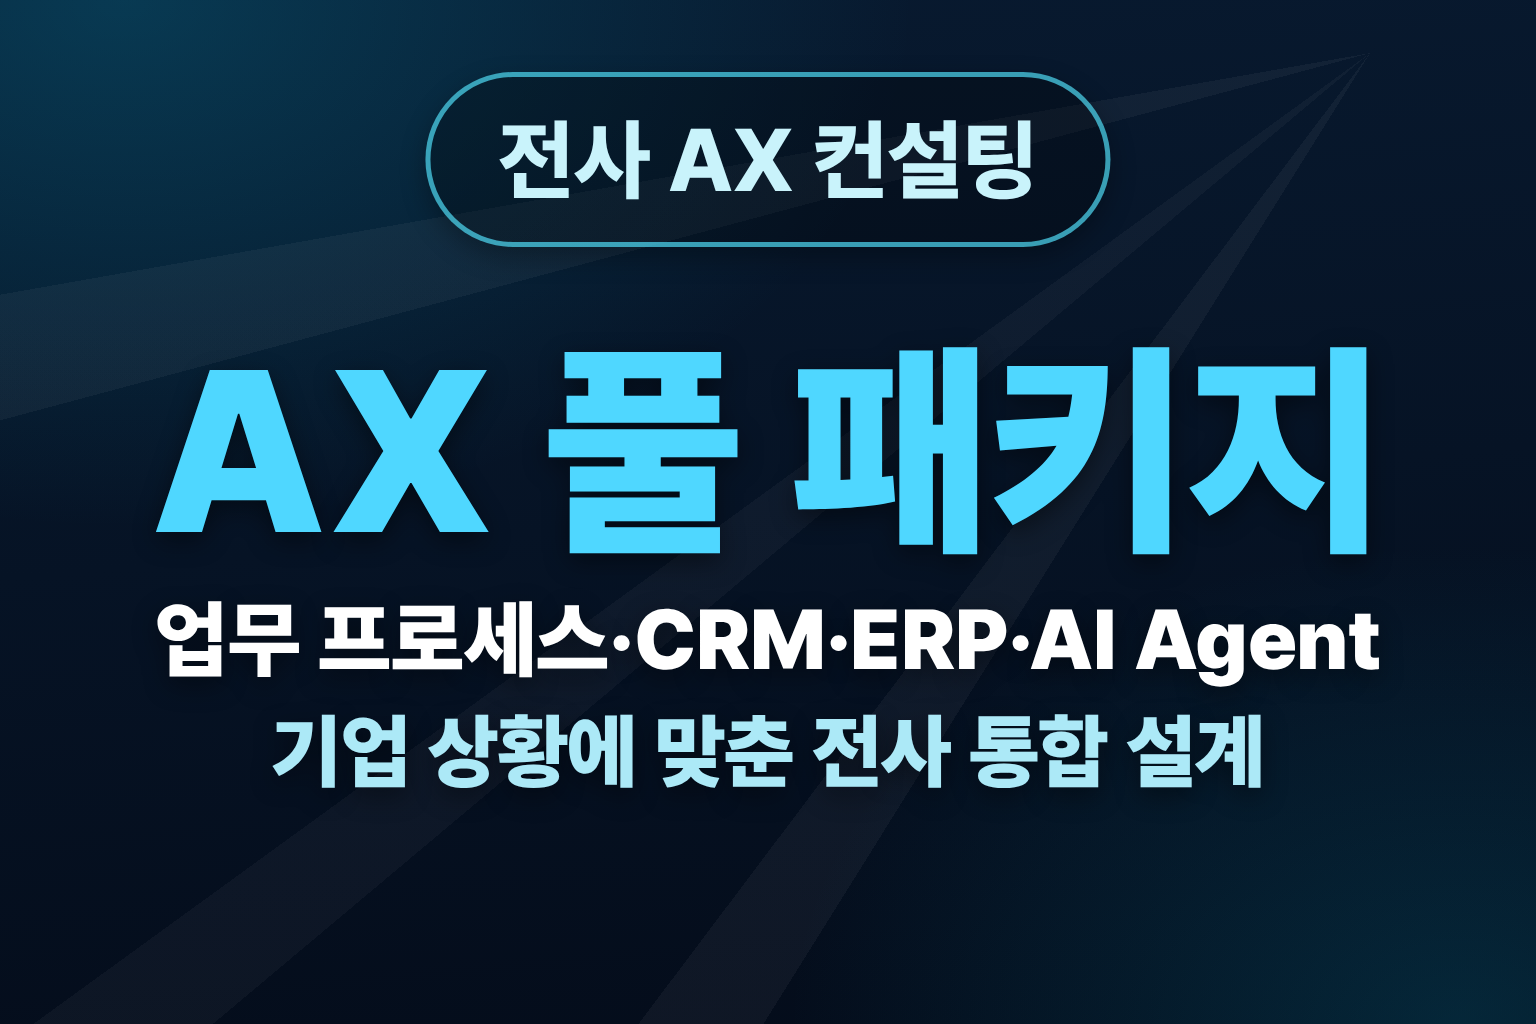
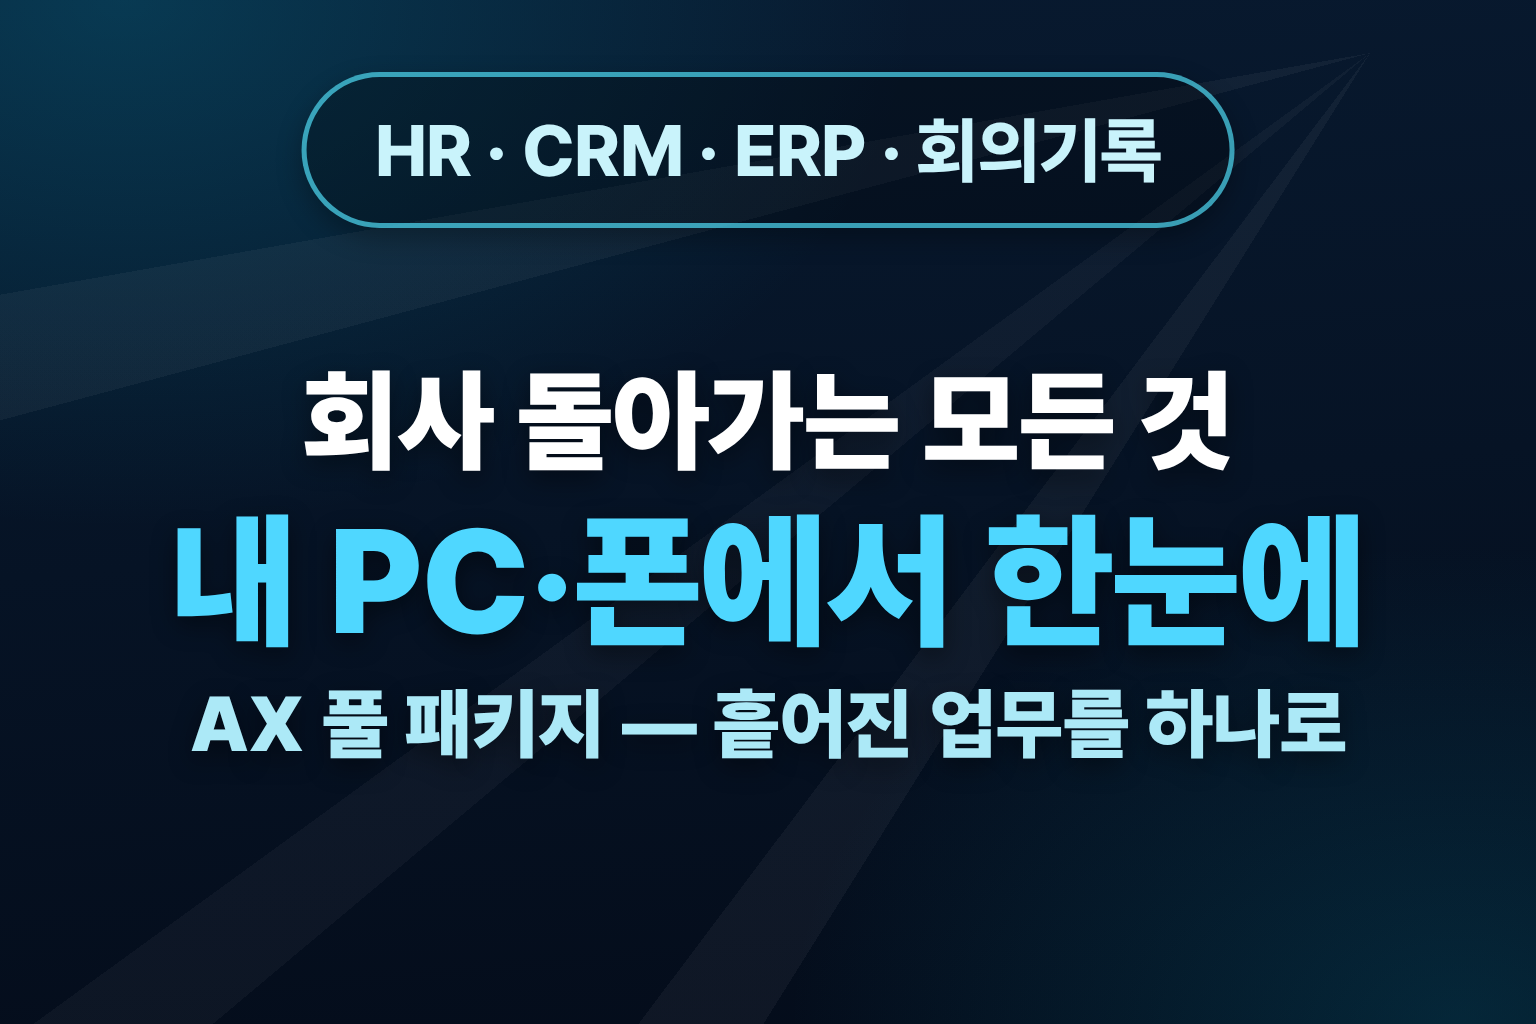
법인 컨설팅 카테고리 신설 + AX 풀 패키지 쉬운 문구 전환
- 6번 카테고리 '법인 컨설팅' 신설: 세금은 줄이고, 회사의 부를 제대로 옮기고 싶다면
  · 가지급금 정리 / 이익잉여금 처분 / 가업승계 증여특례 / 배우자 증여 이익소각 설계 (모두 협의 후 결정)
  · 섹션 제목 아래 '세무사 등 관련 분야 전문 자격사와 함께 진행' 노트 상시 노출 + 상품별 고지 포함
  · 전용 배너 4종(딥 와인+골드, 전문 자격사 풋노트), 상세페이지·카테고리 탭·?category=corporate 연동
- 햄버거 메뉴 상황 목차에 6번 항목 추가
- AX 풀 패키지 전면 리라이팅: 전문용어 대신 '회사 돌아가는 모든 것, 내 PC·폰에서 한눈에'
  · HR·CRM·ERP·회의 아카이빙까지 하나로 연결된다는 부연으로 배너·카드·상세 문구 통일

Claude-Session: https://claude.ai/code/session_0127QvWRVvHFDHQbBmPVBCzc

diff --git a/src/data/businessPackages.ts b/src/data/businessPackages.ts
@@ -58,7 +58,7 @@ export type BusinessPackage = {
 }
 
 // 카테고리 탭
-export const CATEGORIES = ['전체', '자금조달', '지원금', '인증·절세', 'AX 컨설팅', '풀패키지']
+export const CATEGORIES = ['전체', '자금조달', '지원금', '인증·절세', 'AX 컨설팅', '풀패키지', '법인 컨설팅']
 
 // 카테고리별 상황 헤드라인 (서비스몰 홈 섹션 제목 + 카테고리 탭 라벨)
 export const CATEGORY_SCENARIOS: Record<string, string> = {
@@ -67,6 +67,12 @@ export const CATEGORY_SCENARIOS: Record<string, string> = {
   '인증·절세': '대외 신뢰도·가점·세금 혜택까지 챙기고 싶다면',
   'AX 컨설팅': 'AI 시대에 뒤처지지 않는 회사로 만들고 싶다면',
   '풀패키지': '믿을 만한 파트너가 늘 함께했으면 한다면',
+  '법인 컨설팅': '세금은 줄이고, 회사의 부를 제대로 옮기고 싶다면',
+}
+
+// 카테고리별 보조 안내 — 섹션 제목 아래 노출 (전문성 신뢰 확보용)
+export const CATEGORY_NOTES: Record<string, string> = {
+  '법인 컨설팅': '가지급금·이익잉여금·가업승계 같은 세무 사안은 세무사 등 관련 분야 전문 자격사와 함께 진행합니다.',
 }
 
 // 대표 상품 TOP 5 노출 순서
@@ -270,23 +276,23 @@ export const businessPackages: BusinessPackage[] = [
     id: 'ax-full-package',
     slug: 'ax-full-package',
     category: 'AX 컨설팅',
-    badge: '전사 AX',
+    badge: '한눈에 관리',
     badgeTone: 'slate',
     name: 'AX 풀 패키지',
-    tagline: 'AI 자동화부터 전사 업무 프로세스·CRM·ERP·AI Agent·사내 업무 체계까지 기업 상황에 맞춰 설계합니다.',
-    short: '전사 업무 프로세스·CRM·ERP·AI Agent까지 설계',
+    tagline: '회사의 모든 정보를 대표님 PC와 스마트폰에서 한눈에 보고 관리할 수 있게 만듭니다. 직원 관리(HR)·고객 관리(CRM)·재고·정산(ERP)·회의 아카이빙까지, 흩어진 업무를 하나로 연결합니다.',
+    short: '회사 돌아가는 모든 것, 내 PC·스마트폰에서 한눈에',
     price: '상담 후 안내',
     priceNote: '기업 상황에 맞춰 범위·견적을 상담 후 안내드립니다.',
     priceType: 'consult',
-    highlights: ['AI 자동화 + 전사 업무 프로세스 설계', 'CRM·ERP·AI Agent·자동화 플랫폼', '사내 업무 체계까지 통합 설계'],
-    highlightNote: '기업 상황에 맞춰 설계하는 전사 AX 구축',
-    recommendedFor: ['단순 자동화를 넘어 전사 업무 체계를 바꾸려는 대표님', 'CRM·ERP·AI Agent까지 통합 설계가 필요한 기업'],
-    deliverables: ['전사 업무 프로세스 진단·설계', 'CRM·ERP·AI Agent·자동화 플랫폼 설계', '사내 업무 체계 재정비', '단계별 구축·운영 로드맵'],
+    highlights: ['HR·CRM·ERP·회의기록까지 하나로 연결', '언제 어디서든 PC·스마트폰으로 확인', '필요한 것부터 단계적으로 구축'],
+    highlightNote: '흩어진 회사 정보를 한 화면에서 보고 관리합니다.',
+    recommendedFor: ['회사 돌아가는 상황을 언제 어디서든 한눈에 보고 싶은 대표님', '엑셀·메신저·수기로 흩어진 업무를 하나로 모으고 싶은 기업'],
+    deliverables: ['회사 업무·정보 흐름 진단', 'HR·CRM·ERP·회의 아카이빙 통합 설계', 'PC·스마트폰 어디서든 보는 관리 화면 구축', '단계별 구축·운영 로드맵'],
     process: '종합 진단 → 범위·견적 상담 → 단계별 설계·구축 → 운영 안내',
-    expectation: 'AI 자동화부터 전사 프로세스·CRM·ERP·AI Agent·사내 업무 체계까지 하나의 AX 구조로 설계됩니다. 범위와 견적은 상담에서 확정합니다.',
-    why: '자동화 프로그램 하나로는 회사 전체가 바뀌지 않습니다. 업무 프로세스·데이터·시스템을 함께 설계해야 전사 차원의 효율이 만들어집니다. 기업 상황에 맞춰 필요한 만큼 단계적으로 구축합니다.',
+    expectation: '직원 관리(HR), 고객 관리(CRM), 재고·정산(ERP), 회의 기록까지 흩어져 있던 회사 정보가 하나로 연결되어, 대표님 PC와 스마트폰에서 한눈에 확인하고 관리할 수 있게 됩니다.',
+    why: '업무가 엑셀, 메신저, 종이 문서에 흩어져 있으면 회사 상황을 파악하는 데만 하루가 갑니다. 회사의 정보를 한 곳에 모아 PC와 스마트폰 어디서든 볼 수 있게 만들면, 자리에 없어도 회사가 어떻게 돌아가는지 바로 보입니다.',
     faqs: [
-      { q: '무엇까지 포함되나요?', a: 'AI 자동화, 전사 업무 프로세스, CRM, ERP, AI Agent, 자동화 플랫폼, 사내 업무 체계까지 기업 상황에 맞춰 설계합니다. 범위는 상담에서 정합니다.' },
+      { q: '무엇까지 포함되나요?', a: '직원 관리(HR), 고객 관리(CRM), 재고·매출·정산 관리(ERP), 회의 아카이빙 등 회사 운영에 필요한 것들을 기업 상황에 맞춰 하나로 연결합니다. 범위는 상담에서 정합니다.' },
       { q: '비용은 어떻게 되나요?', a: '기업 규모와 구축 범위에 따라 달라, 상담 후 견적을 안내드립니다.' },
       { q: '한 번에 다 구축하나요?', a: '우선순위를 정해 단계적으로 진행합니다. 무엇부터 할지는 종합 진단에서 함께 정합니다.' },
     ],
@@ -435,6 +441,123 @@ export const businessPackages: BusinessPackage[] = [
     featured: true,
     flagship: true,
   },
+  // ── 법인 컨설팅 (전통 법인 컨설팅 — 세무사 등 전문 자격사 협업, 전부 협의 후 결정) ──
+  {
+    id: 'provisional-payment',
+    slug: 'provisional-payment',
+    category: '법인 컨설팅',
+    badge: '전문 자격사 협업',
+    badgeTone: 'slate',
+    name: '가지급금 정리 컨설팅',
+    tagline: '세무사 등 관련 분야 전문 자격사와 함께, 쌓여 있는 가지급금의 원인을 분석하고 계획적으로 정리합니다.',
+    short: '쌓인 가지급금, 세금 부담이 커지기 전에 계획적으로 정리',
+    price: '협의 후 결정',
+    priceNote: '가지급금 규모·발생 원인에 따라 협의 후 결정',
+    priceType: 'consult',
+    highlights: ['가지급금 원인 분석 · 정리 플랜 설계', '인정이자·상여처분 부담 사전 점검', '세무사 등 전문 자격사와 협업 진행'],
+    highlightNote: '방치할수록 커지는 가지급금 부담을 계획적으로 줄여갑니다.',
+    recommendedFor: ['가지급금이 쌓여 세금 부담이 걱정되는 법인', '법인 자금 흐름을 깨끗하게 정리하고 싶은 대표님'],
+    deliverables: ['가지급금 현황·발생 원인 분석', '정리 방안 비교 검토(급여·배당·퇴직금 등)', '실행 순서·일정 정리', '재발 방지 관리 방안 안내'],
+    process: '현황 진단 → 정리 방안 설계 → 전문 자격사 협업 실행 → 사후 관리',
+    expectation: '가지급금이 왜 쌓였는지 파악되고, 우리 회사 상황에 맞는 정리 순서와 실행 계획이 정리됩니다.',
+    why: '가지급금을 방치하면 인정이자 부담이 계속 쌓이고, 정리 시점에 대표 상여로 처분되어 세금 부담이 커질 수 있습니다. 원인을 파악하고 계획을 세워 순서대로 정리하는 것이 부담을 가장 줄이는 방법입니다.',
+    faqs: [
+      { q: '직접 진행하나요?', a: '세무 판단이 필요한 부분은 세무사 등 관련 분야 전문 자격사와 협업하여 진행합니다. 저희는 전체 과정을 설계하고 관리합니다.' },
+      { q: '비용은 어떻게 되나요?', a: '가지급금 규모와 발생 원인, 정리 범위에 따라 달라 협의 후 결정됩니다.' },
+      { q: '정리하면 세금이 무조건 줄어드나요?', a: '아니요. 기업 상황과 관련 법령에 따라 달라질 수 있어, 사전 검토 후 가능한 범위를 안내드립니다.' },
+    ],
+    visualType: 'funding',
+    imageSrc: '/assets/business-services/provisional-payment.png',
+    notice:
+      '본 서비스는 세무사 등 관련 분야 전문 자격사와 협업하여 진행합니다. 절세 효과와 적용 가능 여부는 기업 상황과 관련 법령·과세관청 해석에 따라 달라질 수 있으며, 특정 결과를 보장하지 않습니다.',
+  },
+  {
+    id: 'retained-earnings',
+    slug: 'retained-earnings',
+    category: '법인 컨설팅',
+    badge: '전문 자격사 협업',
+    badgeTone: 'slate',
+    name: '이익잉여금 처분 컨설팅',
+    tagline: '세무사 등 관련 분야 전문 자격사와 함께, 법인에 쌓인 이익잉여금을 배당·급여·퇴직금 조합으로 계획성 있게 처분합니다.',
+    short: '법인에 쌓인 이익잉여금, 배당·급여·퇴직금 조합으로 계획 있게',
+    price: '협의 후 결정',
+    priceNote: '이익잉여금 규모·주주 구성에 따라 협의 후 결정',
+    priceType: 'consult',
+    highlights: ['이익잉여금 현황·세부담 시뮬레이션', '배당·급여·퇴직금 조합 설계', '세무사 등 전문 자격사와 협업 진행'],
+    highlightNote: '쌓아두기만 한 이익잉여금을 계획적으로 움직입니다.',
+    recommendedFor: ['이익잉여금이 쌓여 있는데 어떻게 가져올지 막막한 대표님', '배당·급여·퇴직금을 조합해 세부담을 관리하고 싶은 법인'],
+    deliverables: ['이익잉여금 현황 진단', '처분 방안별 세부담 비교(배당·급여·퇴직금 등)', '연도별 실행 플랜 설계', '실행 관리·사후 안내'],
+    process: '현황 진단 → 처분 조합 설계 → 전문 자격사 협업 실행 → 사후 관리',
+    expectation: '이익잉여금을 언제, 어떤 방식으로, 얼마나 가져올지 연도별 계획이 정리됩니다.',
+    why: '이익잉여금을 쌓아두기만 하면 나중에 한 번에 가져올 때 세부담이 커지고, 비상장주식 가치가 올라 승계·양도 부담도 함께 커질 수 있습니다. 미리 조합을 설계해 나눠서 움직이는 것이 유리한 경우가 많습니다.',
+    faqs: [
+      { q: '어떤 방식들을 검토하나요?', a: '배당, 급여·상여, 임원 퇴직금 등 처분 방식을 기업 상황에 맞춰 조합하고, 방식별 세부담을 비교해 안내드립니다.' },
+      { q: '직접 진행하나요?', a: '세무 판단이 필요한 부분은 세무사 등 관련 분야 전문 자격사와 협업하여 진행합니다.' },
+      { q: '비용은 어떻게 되나요?', a: '이익잉여금 규모와 설계 범위에 따라 달라 협의 후 결정됩니다.' },
+    ],
+    visualType: 'venture',
+    imageSrc: '/assets/business-services/retained-earnings.png',
+    notice:
+      '본 서비스는 세무사 등 관련 분야 전문 자격사와 협업하여 진행합니다. 절세 효과와 적용 가능 여부는 기업 상황과 관련 법령·과세관청 해석에 따라 달라질 수 있으며, 특정 결과를 보장하지 않습니다.',
+  },
+  {
+    id: 'business-succession',
+    slug: 'business-succession',
+    category: '법인 컨설팅',
+    badge: '전문 자격사 협업',
+    badgeTone: 'slate',
+    name: '가업승계 증여특례 컨설팅',
+    tagline: '세무사 등 관련 분야 전문 자격사와 함께, 가업승계 증여세 과세특례 요건을 검토하고 승계 플랜을 설계합니다.',
+    short: '자녀에게 물려줄 회사, 증여세 과세특례로 계획적으로 준비',
+    price: '협의 후 결정',
+    priceNote: '기업 규모·지분 구조에 따라 협의 후 결정',
+    priceType: 'consult',
+    highlights: ['증여특례 요건·적용 가능성 검토', '승계 일정·지분 이전 플랜 설계', '세무사 등 전문 자격사와 협업 진행'],
+    highlightNote: '준비 기간이 길수록 유리한 것이 가업승계입니다.',
+    recommendedFor: ['자녀에게 회사를 물려줄 계획이 있는 대표님', '증여세 부담 때문에 승계를 미루고 있는 법인'],
+    deliverables: ['가업승계 증여특례 요건 검토', '지분 구조·승계 일정 설계', '특례 적용 후 사후관리 요건 정리', '실행 관리·사후 안내'],
+    process: '요건 검토 → 승계 플랜 설계 → 전문 자격사 협업 실행 → 사후관리 안내',
+    expectation: '우리 회사가 증여특례를 적용받을 수 있는지, 언제 어떤 순서로 지분을 넘길지 승계 로드맵이 정리됩니다.',
+    why: '가업승계는 준비 없이 진행하면 증여세·상속세 부담이 매우 커질 수 있습니다. 과세특례는 요건과 사후관리 의무가 까다로워, 미리 요건을 맞추고 일정을 설계할수록 세부담과 리스크를 줄일 수 있습니다.',
+    faqs: [
+      { q: '특례를 적용하면 세금이 얼마나 줄어드나요?', a: '기업 규모·지분 가치·요건 충족 여부에 따라 달라집니다. 사전 검토에서 예상 범위를 함께 확인합니다.' },
+      { q: '사후관리 요건이 있다고 들었어요.', a: '네. 특례 적용 후 일정 기간 업종·고용 등 유지 의무가 있어, 사후관리까지 함께 설계합니다.' },
+      { q: '직접 진행하나요?', a: '세무 판단이 필요한 부분은 세무사 등 관련 분야 전문 자격사와 협업하여 진행합니다.' },
+    ],
+    visualType: 'full',
+    imageSrc: '/assets/business-services/business-succession.png',
+    notice:
+      '본 서비스는 세무사 등 관련 분야 전문 자격사와 협업하여 진행합니다. 특례 적용 여부와 절세 효과는 기업 상황과 관련 법령·과세관청 해석에 따라 달라질 수 있으며, 특정 결과를 보장하지 않습니다.',
+  },
+  {
+    id: 'spouse-stock-retirement',
+    slug: 'spouse-stock-retirement',
+    category: '법인 컨설팅',
+    badge: '전문 자격사 협업',
+    badgeTone: 'slate',
+    name: '배우자 증여 이익소각 설계',
+    tagline: '세무사 등 관련 분야 전문 자격사와 함께, 배우자 증여재산공제를 활용한 이익소각 구조의 적용 가능성을 검토하고 설계합니다.',
+    short: '배우자 증여공제를 활용한 법인 자금 회수 구조 설계',
+    price: '협의 후 결정',
+    priceNote: '지분 구조·주식 가치에 따라 협의 후 결정',
+    priceType: 'consult',
+    highlights: ['배우자 증여공제 활용 구조 검토', '자기주식 취득·소각 절차 설계', '세무사 등 전문 자격사와 협업 진행'],
+    highlightNote: '요건과 절차가 까다로운 만큼, 사전 검토가 필수입니다.',
+    recommendedFor: ['법인 자금을 회수하고 싶은데 세부담이 걱정되는 대표님', '지분 구조를 정리하면서 자금 회수를 함께 설계하고 싶은 법인'],
+    deliverables: ['적용 가능성·리스크 사전 검토', '주식 가치 평가·증여 플랜 설계', '자기주식 취득·소각 절차 설계', '실행 관리·사후 안내'],
+    process: '사전 검토 → 구조 설계 → 전문 자격사 협업 실행 → 사후 관리',
+    expectation: '우리 회사 상황에서 이익소각 구조가 적용 가능한지, 어떤 절차와 일정으로 진행할지 검토 결과가 정리됩니다.',
+    why: '이익소각은 절차와 요건이 까다롭고, 관련 법령·과세관청 해석에 따라 결과가 달라질 수 있는 영역입니다. 실행 전에 전문 자격사와 함께 적용 가능성과 리스크를 충분히 검토하는 것이 중요합니다.',
+    faqs: [
+      { q: '누구나 활용할 수 있나요?', a: '아니요. 지분 구조·주식 가치·자금 흐름에 따라 적용이 어려운 경우도 있어, 사전 검토가 먼저입니다.' },
+      { q: '세무 리스크는 없나요?', a: '관련 법령과 과세관청 해석에 따라 달라질 수 있어, 전문 자격사와 함께 리스크를 검토한 후 진행 여부를 결정합니다.' },
+      { q: '비용은 어떻게 되나요?', a: '지분 구조와 설계 범위에 따라 협의 후 결정됩니다.' },
+    ],
+    visualType: 'lab',
+    imageSrc: '/assets/business-services/spouse-stock-retirement.png',
+    notice:
+      '본 서비스는 세무사 등 관련 분야 전문 자격사와 협업하여 진행합니다. 절세 효과와 적용 가능 여부는 기업 상황과 관련 법령·과세관청 해석에 따라 달라질 수 있으며, 특정 결과를 보장하지 않습니다.',
+  },
 ]
 
 // ── 상품 배너(썸네일) 폴백 메타 ─────────────────────────────────────────────
@@ -448,12 +571,16 @@ export const packageBanner: Record<string, { title: string; subtitle: string; ac
   'venture-investment': { title: '벤처인증 · 투자유형', subtitle: '절세 전략으로 많이 활용', accent: 'indigo' },
   'responsive-homepage': { title: '반응형 홈페이지', subtitle: '24시간 일하는 온라인 영업사원', accent: 'cyan' },
   'ai-ax-system': { title: 'AI 업무 자동화 프로그램', subtitle: '반복업무 자동화 · 상담 후 최종 견적', accent: 'cyan' },
-  'ax-full-package': { title: 'AX 풀 패키지', subtitle: '전사 프로세스·CRM·ERP·AI Agent 설계', accent: 'cyan' },
+  'ax-full-package': { title: 'AX 풀 패키지', subtitle: '회사의 모든 것, PC·폰에서 한눈에', accent: 'cyan' },
   'rnd-center': { title: '기업부설연구소 설립', subtitle: '정부지원·정책자금 가점 확보', accent: 'slate' },
   'iso-certification': { title: 'ISO 인증 패키지', subtitle: '거래·입찰·수출 준비', accent: 'slate' },
   'mainbiz-certification': { title: '메인비즈 인증', subtitle: '경영혁신형 가점 확보', accent: 'slate' },
   'innobiz-certification': { title: '이노비즈 인증', subtitle: '기술혁신형 우대 확보', accent: 'slate' },
   'growth-roadmap-package': { title: '성장 로드맵 풀패키지', subtitle: '자금·인증·홈페이지·AI 한 번에', accent: 'blue' },
+  'provisional-payment': { title: '가지급금 정리', subtitle: '원인 분석부터 계획적 정리까지', accent: 'indigo' },
+  'retained-earnings': { title: '이익잉여금 처분 설계', subtitle: '배당·급여·퇴직금 조합 설계', accent: 'indigo' },
+  'business-succession': { title: '가업승계 증여특례', subtitle: '요건 검토부터 지분 이전 플랜까지', accent: 'indigo' },
+  'spouse-stock-retirement': { title: '배우자 증여 이익소각 설계', subtitle: '법인 자금 회수 구조 설계', accent: 'indigo' },
 }
 
 export function getPackageBySlug(slug: string | undefined): BusinessPackage | undefined {
@@ -473,4 +600,5 @@ export const categoryToneClass: Record<string, string> = {
   '인증·절세': 'bg-indigo-50 text-indigo-700 ring-1 ring-inset ring-indigo-600/15',
   'AX 컨설팅': 'bg-cyan-50 text-cyan-700 ring-1 ring-inset ring-cyan-600/15',
   '풀패키지': 'bg-amber-50 text-amber-700 ring-1 ring-inset ring-amber-500/20',
+  '법인 컨설팅': 'bg-rose-50 text-rose-700 ring-1 ring-inset ring-rose-600/15',
 }

diff --git a/src/pages/BusinessServicesPage.tsx b/src/pages/BusinessServicesPage.tsx
@@ -9,6 +9,7 @@ import { loadHistory } from '../lib/businessDiagnosisStorage'
 import {
   businessPackages,
   CATEGORIES,
+  CATEGORY_NOTES,
   CATEGORY_SCENARIOS,
   FEATURED_IDS,
   type BusinessPackage,
@@ -57,6 +58,7 @@ const CATEGORY_QUERY_MAP: Record<string, string> = {
   certification: '인증·절세',
   digital: 'AX 컨설팅',
   full: '풀패키지',
+  corporate: '법인 컨설팅',
 }
 
 export default function BusinessServicesPage() {
@@ -351,6 +353,12 @@ export default function BusinessServicesPage() {
                   <span className="text-lg font-black tabular-nums tracking-widest text-blue-600 sm:text-xl">{String(gi + 1).padStart(2, '0')}</span>
                   <h3 className="text-xl font-extrabold tracking-tight text-slate-900 sm:text-2xl">{g.scenario}</h3>
                 </div>
+                {CATEGORY_NOTES[g.cat] && (
+                  <p className="mt-1.5 flex items-start gap-1.5 text-[0.9rem] font-semibold leading-snug text-slate-500">
+                    <span aria-hidden className="mt-0.5 shrink-0 text-blue-500">✓</span>
+                    {CATEGORY_NOTES[g.cat]}
+                  </p>
+                )}
                 <div className="mt-4 grid grid-cols-2 gap-3 sm:gap-5 lg:grid-cols-3">
                   {g.items.map((pkg) => (
                     <ProductCard key={pkg.id} pkg={pkg} />

diff --git a/src/components/PublicMenuDrawer.tsx b/src/components/PublicMenuDrawer.tsx
@@ -71,6 +71,7 @@ const BUSINESS_MENU: MenuConfig = {
         { no: '3', label: '대외 신뢰도·가점·세금 혜택까지 챙기고 싶다면', to: '/business-services?category=certification' },
         { no: '4', label: 'AI 시대에 뒤처지지 않는 회사로 만들고 싶다면', to: '/business-services?category=digital' },
         { no: '5', label: '믿을 만한 파트너가 늘 함께했으면 한다면', to: '/business-services?category=full' },
+        { no: '6', label: '세금은 줄이고, 회사의 부를 제대로 옮기고 싶다면', to: '/business-services?category=corporate' },
       ],
     },
     {
